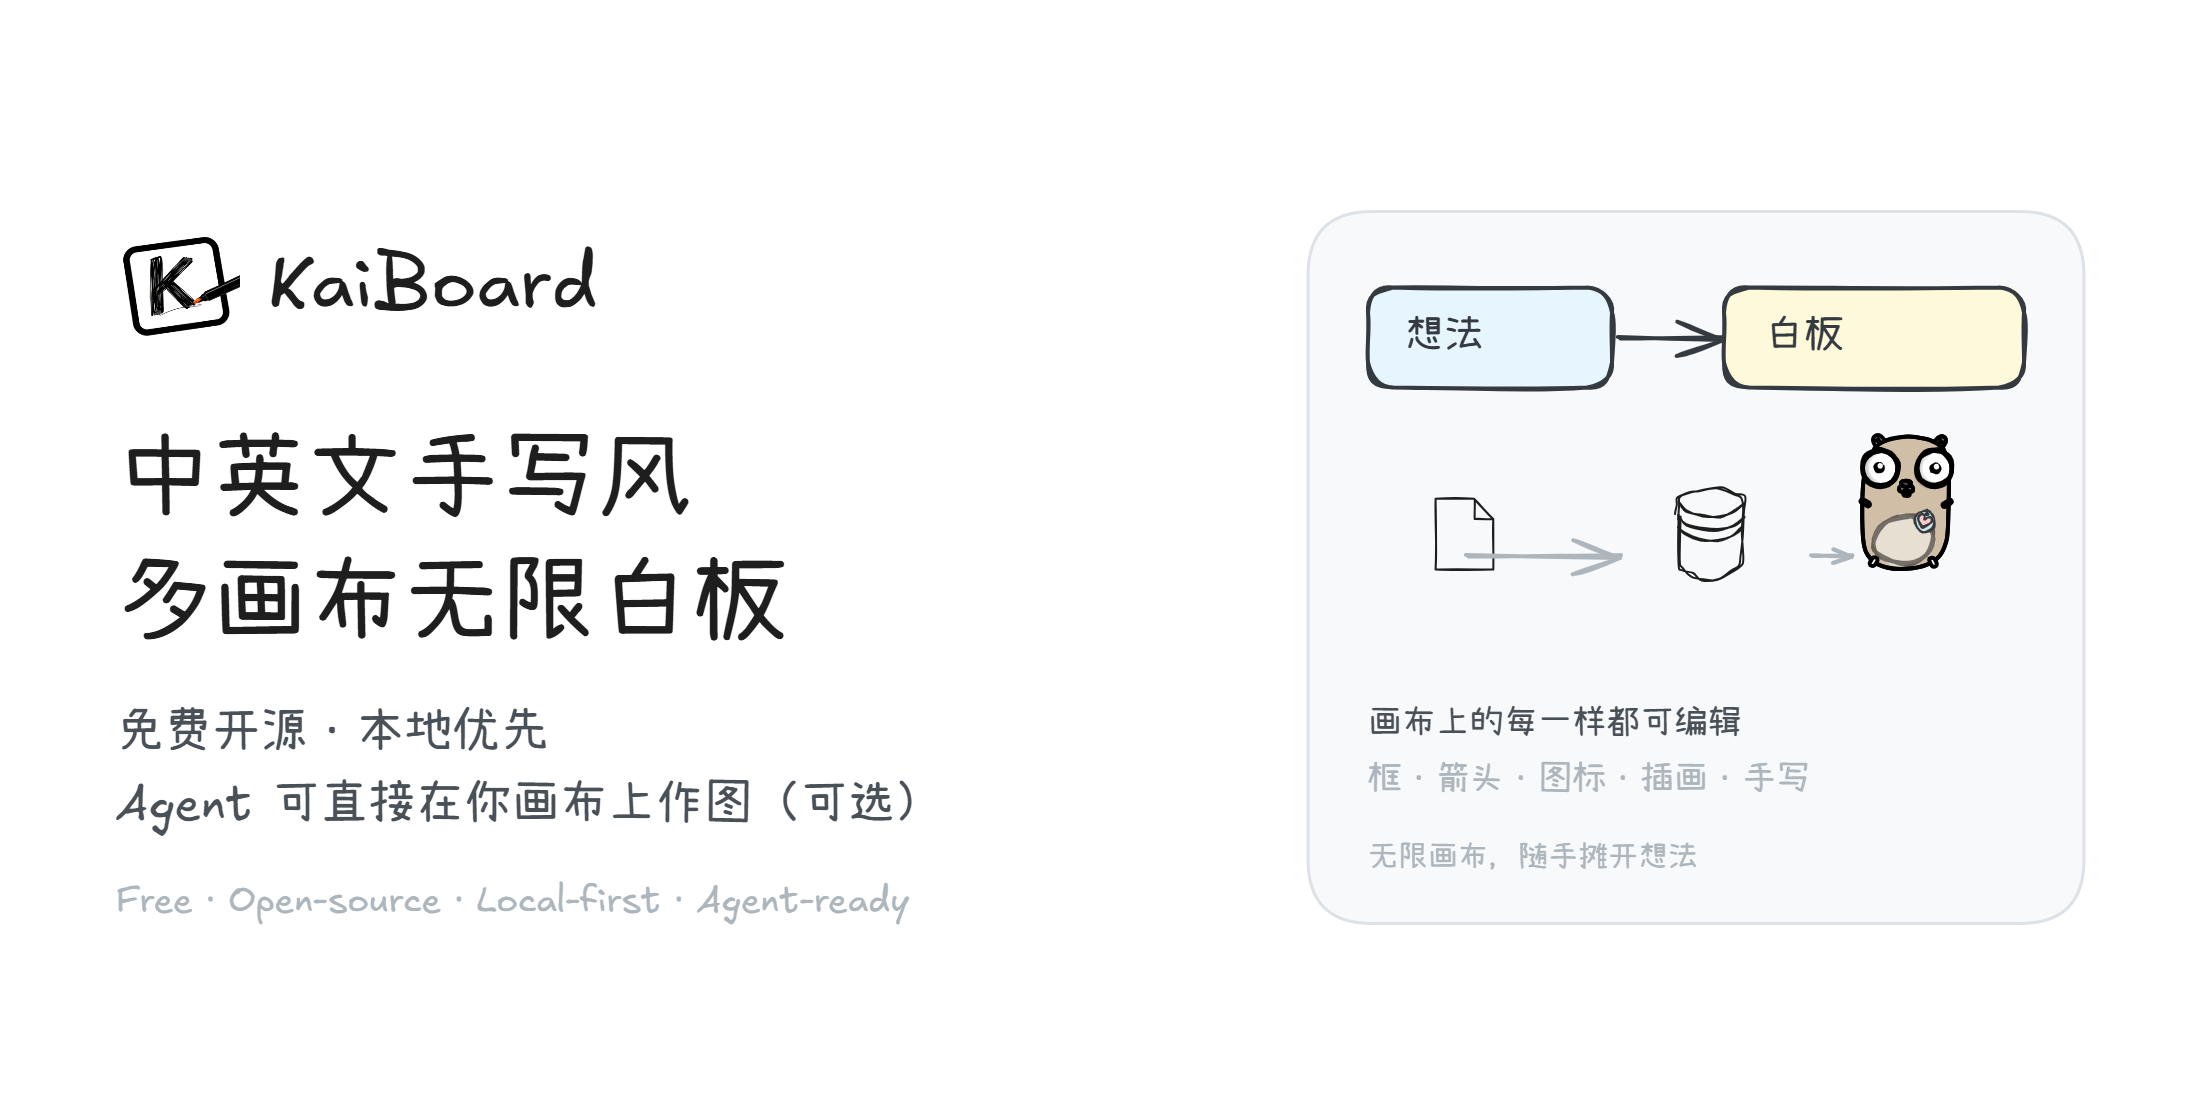
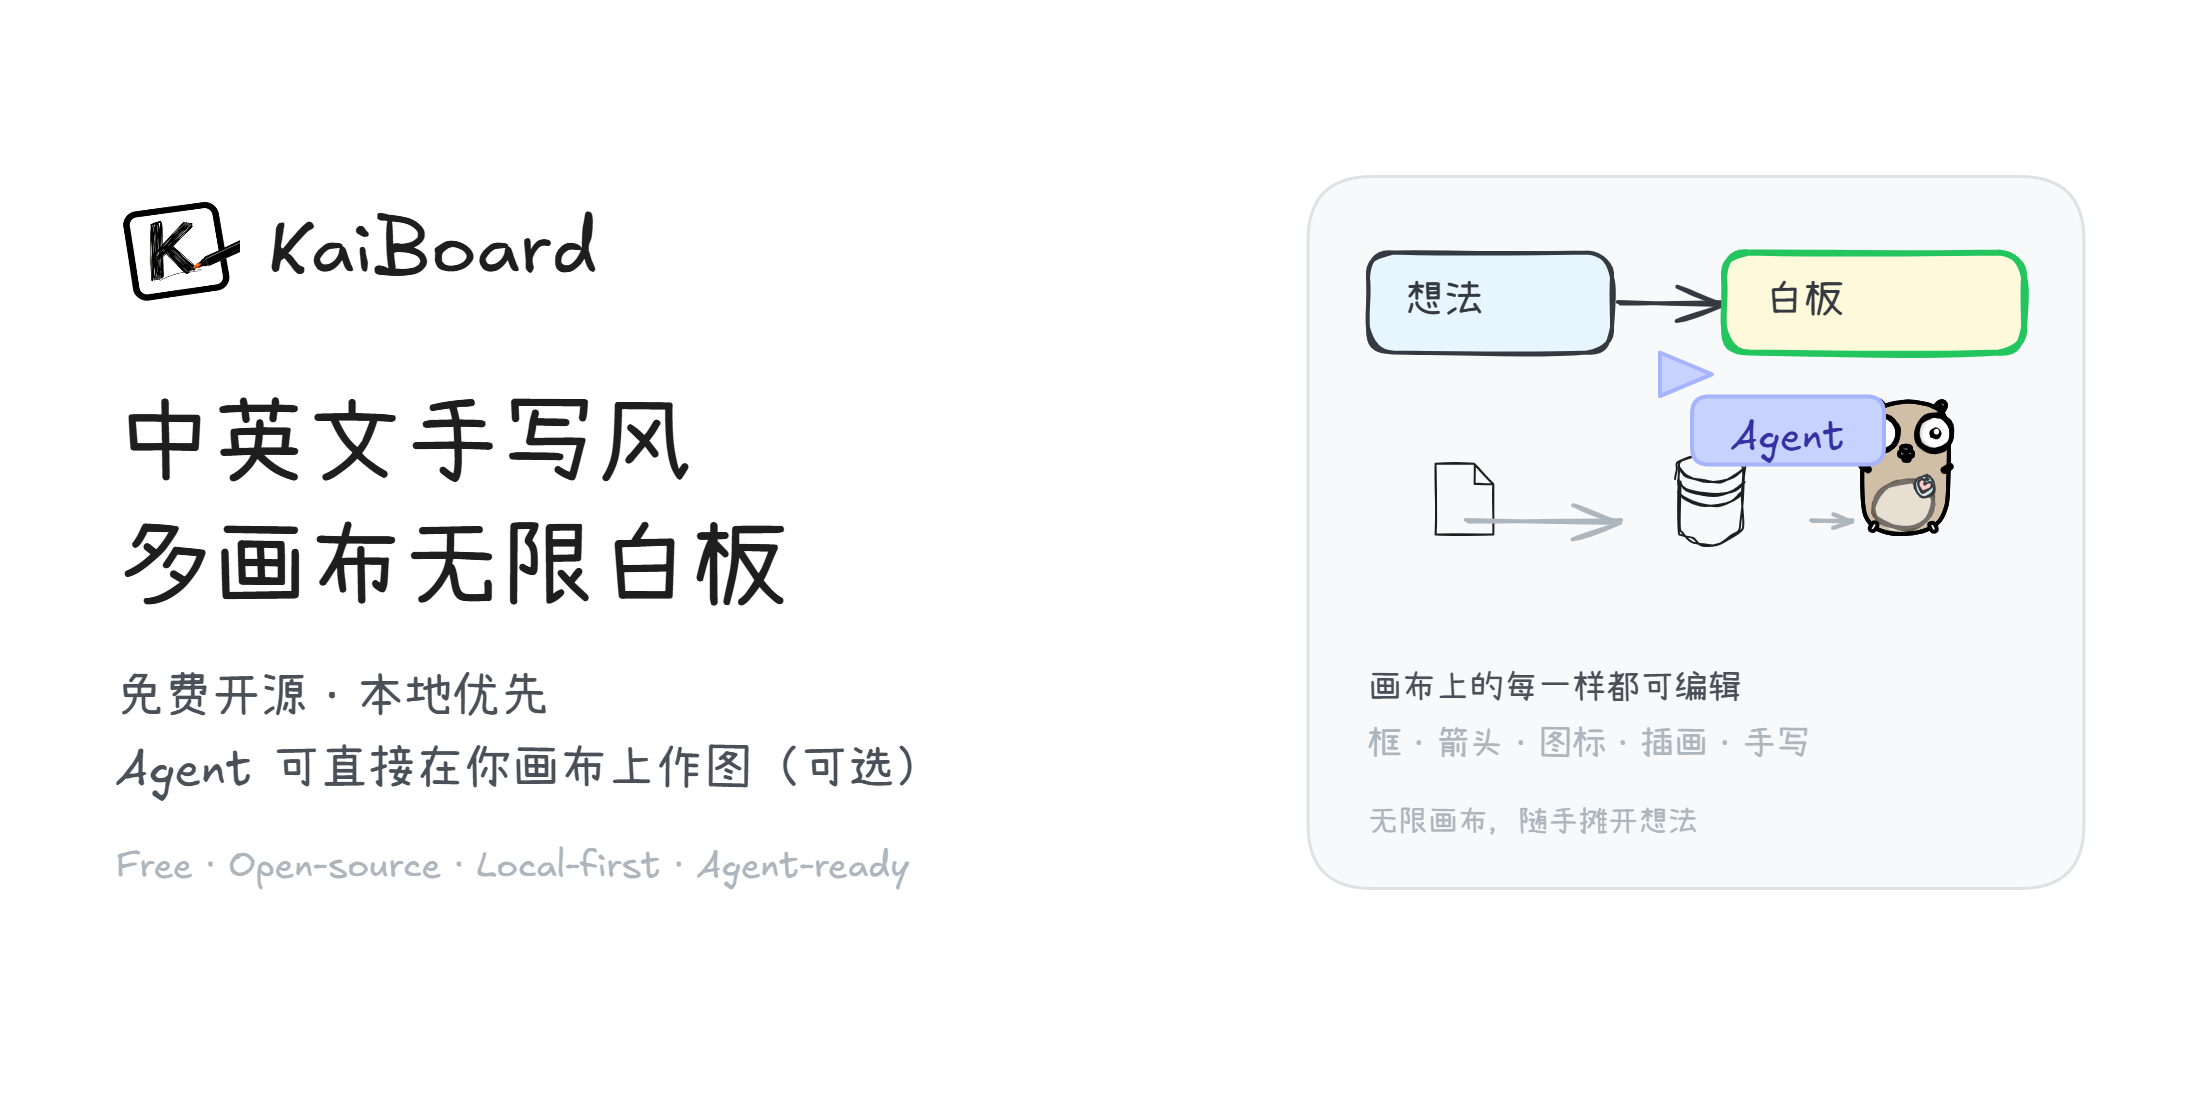
docs(readme): 配图补齐 —— 按 Kai 定序：hero → Agent 交互 → 能画什么 → Kele → 欢迎屏/如何使用/功能介绍
· hero 换为 v2（含 Agent 协作光标 + 「Agent」名牌 + 元素绿描边）
· 新增 agent-interaction（图上只有 1/2/3 标记；三处说明写在正文，便于同一张图多处复用）
· 新增 showcase-what-you-can-draw、kele
· 概念-参考架构不进 README（仅储备）

diff --git a/README.zh-CN.md b/README.zh-CN.md
@@ -41,26 +41,38 @@
 ## 📸 截图
 
 <p align="center">
+  <img src="./assets/agent-interaction.png" alt="KaiBoard Agent 共绘 —— 界面上能看到的三个提示：顶栏角标、侧栏行标记、画布上的 Agent 光标" width="100%">
+</p>
+<p align="center"><em>图 1 · Agent 共绘 —— 界面上能看到的三个提示</em></p>
+
+<p align="center"><sub>① 顶栏：「Agent 共绘中 / 就绪」胶囊 + 呼吸圆点。② 左侧树：该板那行淡绿底 + 呼吸环 + 行尾「· Agent」。③ 画布：绿色协作者光标（带「Agent」名牌），以及它刚写入的元素。</sub></p>
+
+<p align="center">
+  <img src="./assets/showcase-what-you-can-draw.png" alt="这块白板上你能画出什么 —— 流程图、系统架构图、插画、图标、手写" width="100%">
+</p>
+<p align="center"><em>图 2 · 在这块白板上你能画出什么</em></p>
+
+<p align="center">
+  <img src="./assets/kele.png" alt="可乐 Kele —— 全部由画布上可编辑的矢量图元画出，不是图片" width="100%">
+</p>
+<p align="center"><em>图 3 · 可乐 Kele —— 每一笔都是可编辑图元，不是贴图</em></p>
+
+<p align="center">
   <img src="./assets/screenshot-welcome.png" alt="KaiBoard 空欢迎界面与侧栏文件树" width="100%">
 </p>
-<p align="center"><em>图 1 · 空欢迎界面与侧栏多画板文件树</em></p>
+<p align="center"><em>图 4 · 空欢迎界面与侧栏多画板文件树</em></p>
 
 <p align="center">
   <img src="./assets/screenshot-howto.png" alt="如何使用 KaiBoard · 基础功能导览" width="100%">
 </p>
-<p align="center"><em>图 2 · 如何使用 KaiBoard</em></p>
+<p align="center"><em>图 5 · 如何使用 KaiBoard</em></p>
 
 <p align="center">
   <img src="./assets/screenshot-features.png" alt="KaiBoard 功能介绍 —— 六张能力卡总览" width="100%">
 </p>
-<p align="center"><em>图 3 · 功能介绍</em></p>
+<p align="center"><em>图 6 · 功能介绍</em></p>
 
 <sub>* 本文配图均来自 KaiBoard 的<strong>真实运行界面</strong>与<strong>真实画板导出</strong>；画板类内容由 Kai 与他的 AI Agent「Buddy」共绘。</sub>
-
-
-> **⚙ 两层设置，各管各的**：KaiBoard 现在有两处设置——① **画布内设置**（Excalidraw 自带，如视图缩放、主题、导出、快捷键等，由 Excalidraw 控制）；② **外壳设置**（右上角 ⚙，管语言、存储位置，以及我们新增的导入/导出备份、双链等入口）。两者职责不同、互不影响。
-
-> **🌐 语言范围**：画布内 Excalidraw 原生支持数十种语言（由 Excalidraw 提供，我们不改）；KaiBoard 外壳额外做了**简体中文 / 繁体中文 / 英文**三种最基础的语言（覆盖主要用户群）。外壳文本量小且为独立层，只能覆盖我们自己写的 UI，无法替 Excalidraw 增删语言。
 
 ## 🚀 快速开始
 

diff --git a/README.md b/README.md
@@ -35,22 +35,38 @@ See [`docs/FEATURES.md`](docs/FEATURES.md) for the full feature list, [`docs/AGE
 ## 📸 Screenshots
 
 <p align="center">
+  <img src="./assets/agent-interaction.png" alt="KaiBoard Agent co-draw — the three on-screen cues: top bar badge, sidebar row marker, and the Agent cursor on the canvas" width="100%">
+</p>
+<p align="center"><em>Fig. 1 · Agent co-draw — three cues you can see on screen</em></p>
+
+<p align="center"><sub>① Top bar: the “Agent drawing / ready” pill with a breathing dot. ② Sidebar: that board's row gets a soft green tint, a breathing ring and a trailing “· Agent”. ③ Canvas: a green collaborator cursor with an “Agent” name tag, plus the elements it just wrote.</sub></p>
+
+<p align="center">
+  <img src="./assets/showcase-what-you-can-draw.png" alt="What you can draw on this board — flowcharts, system diagrams, illustrations, icons, handwriting" width="100%">
+</p>
+<p align="center"><em>Fig. 2 · What you can draw on it</em></p>
+
+<p align="center">
+  <img src="./assets/kele.png" alt="Kele the cat, drawn entirely with editable vector elements on the canvas" width="100%">
+</p>
+<p align="center"><em>Fig. 3 · Kele — every stroke is an editable element, not an image</em></p>
+
+<p align="center">
   <img src="./assets/screenshot-welcome.png" alt="KaiBoard welcome screen with sidebar file tree" width="100%">
 </p>
-<p align="center"><em>Fig. 1 · Welcome screen &amp; multi-board sidebar tree</em></p>
+<p align="center"><em>Fig. 4 · Welcome screen &amp; multi-board sidebar tree</em></p>
 
 <p align="center">
   <img src="./assets/screenshot-howto.png" alt="How to use KaiBoard — basic features walkthrough" width="100%">
 </p>
-<p align="center"><em>Fig. 2 · How to use KaiBoard</em></p>
+<p align="center"><em>Fig. 5 · How to use KaiBoard</em></p>
 
 <p align="center">
   <img src="./assets/screenshot-features.png" alt="KaiBoard feature overview — six capability cards" width="100%">
 </p>
-<p align="center"><em>Fig. 3 · Feature overview</em></p>
+<p align="center"><em>Fig. 6 · Feature overview</em></p>
 
 <sub>* All images come from KaiBoard's <strong>real running UI</strong> and <strong>real canvas exports</strong> — nothing is a mockup. Board content is co-drawn by Kai and his AI agent, Buddy.</sub>
-
 
 ## 🚀 Quick start
 
